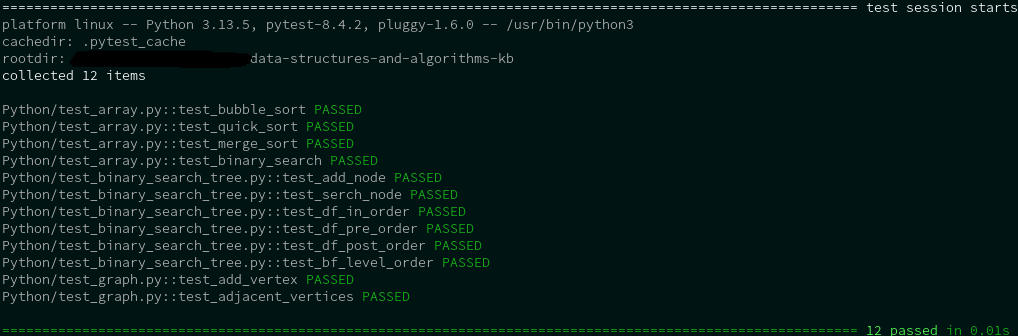
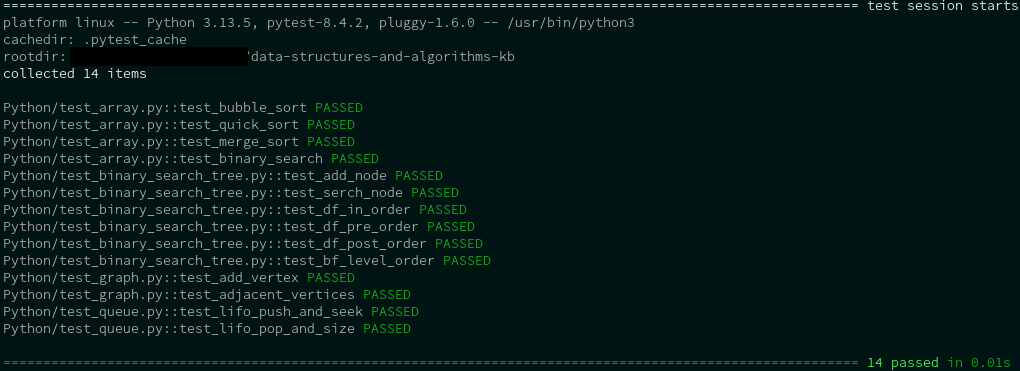
add: linked-list and stack (LIFO queue) data-structures

diff --git a/Python/test_array.py b/Python/test_array.py
@@ -3,91 +3,92 @@ from typing import List, Tuple, Union
 from pytest import fixture
 
 def bubble_sort(arr: List[int]) -> List[int]:
-	swapped = False
-	for i in range(len(arr) - 1):
-		if arr[i] > arr[i+1]:
-			arr[i], arr[i+1] = arr[i+1], arr[i]
-			swapped = True
-	return arr if not swapped else bubble_sort(arr)
+    swapped = False
+    for i in range(len(arr) - 1):
+        if arr[i] > arr[i+1]:
+            arr[i], arr[i+1] = arr[i+1], arr[i]
+            swapped = True
+    return arr if not swapped else bubble_sort(arr)
 
 def quick_sort(arr: List[int]) -> List[int]:
-	if len(arr) < 2:
-		return arr
-	pivot = arr.pop(randrange(len(arr) - 1))
-	return [
-		*quick_sort([x for x in arr if x <= pivot]),
-		pivot,
-		*quick_sort([x for x in arr if x > pivot]),
-	]
+    if len(arr) < 2:
+        return arr
+    pivot = arr.pop(randrange(len(arr) - 1))
+    return [
+        *quick_sort([x for x in arr if x <= pivot]),
+        pivot,
+        *quick_sort([x for x in arr if x > pivot]),
+    ]
 
 def merge_sort(arr: List[int]):
-	if len(arr) > 1:
-		mid = len(arr) // 2
-		left = arr[:mid]
-		right = arr[mid:]
-		merge_sort(left)
-		merge_sort(right)
-		i = j = k = 0
-		while(
-			i < len(left)
-			and j < len(right)
-		):
-			if left[i] < right[j]:
-				arr[k] = left[i]
-				i += 1
-			else:
-				arr[k] = right[j]
-				j += 1
-			k += 1
-		while i < len(left):
-			arr[k] = left[i]
-			i += 1
-			k += 1
-		while j < len(right):
-			arr[k] = right[j]
-			j += 1
-			k += 1
+    if len(arr) > 1:
+        mid = len(arr) // 2
+        left = arr[:mid]
+        right = arr[mid:]
+        merge_sort(left)
+        merge_sort(right)
+        i = j = k = 0
+        while(
+            i < len(left)
+            and j < len(right)
+        ):
+            if left[i] < right[j]:
+                arr[k] = left[i]
+                i += 1
+            else:
+                arr[k] = right[j]
+                j += 1
+            k += 1
+        while i < len(left):
+            arr[k] = left[i]
+            i += 1
+            k += 1
+        while j < len(right):
+            arr[k] = right[j]
+            j += 1
+            k += 1
 
 def binary_search(arr: List[int], item: int) -> Tuple[bool, Union[int, None]]:
-	if len(arr) == 0:
-		return False, None
-	mid = len(arr) // 2
-	if arr[mid] == item:
-		return True, mid
-	if item < arr[mid]:
-		return binary_search(arr[:mid], item)
-	else:
-		return binary_search(arr[mid + 1:], item)
+    if len(arr) == 0:
+        return False, None
+    mid = len(arr) // 2
+    if arr[mid] == item:
+        return True, mid
+    if item < arr[mid]:
+        return binary_search(arr[:mid], item)
+    else:
+        return binary_search(arr[mid + 1:], item)
 
 
 unsorted_list_list = [64, 34, 25, 0, 258, -54, 12, 22, 11, 90, 11, -21]
 
 @fixture
 def unsorted_list():
-	return unsorted_list_list.copy()
+    return unsorted_list_list.copy()
 
 @fixture
 def sorted_list():
-	test_list = unsorted_list_list.copy()
-	merge_sort(test_list)
-	return test_list
+    test_list = unsorted_list_list.copy()
+    merge_sort(test_list)
+    return test_list
 
 
 def test_bubble_sort(unsorted_list: List[int]):
-	assert sorted(unsorted_list) == bubble_sort(unsorted_list)
+    assert sorted(unsorted_list) == bubble_sort(unsorted_list)
 
 def test_quick_sort(unsorted_list: List[int]):
-	assert sorted(unsorted_list) == quick_sort(unsorted_list)
+    assert sorted(unsorted_list) == quick_sort(unsorted_list)
 
 def test_merge_sort(unsorted_list: List[int]):
-	expected_sorted_list = sorted(unsorted_list)
-	merge_sort(unsorted_list)
-	assert unsorted_list == expected_sorted_list
+    test_list = unsorted_list.copy()
+    expected_sorted_list = sorted(unsorted_list)    
+    merge_sort(test_list)
+    assert test_list == expected_sorted_list
 
 def test_binary_search(sorted_list: List[int]):
-	assert True == binary_search(sorted_list, 11)[0]
-	assert 1 == binary_search(sorted_list, -21)[1]
-	assert False == binary_search(sorted_list, 3)[0]
-	assert None == binary_search(sorted_list, 3)[1]
+    assert True == binary_search(sorted_list, 11)[0]
+    assert 1 == binary_search(sorted_list, -21)[1]
+    assert False == binary_search(sorted_list, 3)[0]
+    assert None == binary_search(sorted_list, 3)[1]
 
 

diff --git a/Python/test_queue.py b/Python/test_queue.py
@@ -1,0 +1,55 @@
+from typing import Union, Any
+from dataclasses import dataclass
+from pytest import fixture
+
+@dataclass
+class LinkedListNode:
+    value: Any
+    next: Union['LinkedListNode', None] = None
+
+class LIFOQueue:
+    def __init__(self):
+        self.top: Union[LinkedListNode, None] = None
+        self.size: int = 0
+
+    def push(self, value: Any) -> None:
+        new_node = LinkedListNode(value, self.top)
+        self.top = new_node
+        self.size += 1
+
+    def pop(self) -> Any:
+        if self.top is not None:
+            value = self.top.value
+            self.top = self.top.next
+            self.size -= 1
+            return value
+
+    def seek(self) -> Union[Any, None]:
+        if self.top is not None:
+            return self.top.value
+        return None
+
+    def stack_size(self) -> int:
+        return self.size
+
+
+@fixture
+def sample_stack() -> LIFOQueue:
+    stack = LIFOQueue()
+    stack.push(1)
+    stack.push(2)
+    stack.push(3)
+    return stack
+
+def test_lifo_push_and_seek(sample_stack: LIFOQueue) -> None:
+    sample_stack.push(4)
+    assert sample_stack.seek() == 4
+
+def test_lifo_pop_and_size(sample_stack: LIFOQueue) -> None:
+    assert sample_stack.pop() == 3
+    assert sample_stack.stack_size() == 2
+    assert sample_stack.pop() == 2
+    assert sample_stack.stack_size() == 1
+    assert sample_stack.pop() == 1
+    assert sample_stack.stack_size() == 0
+    assert sample_stack.pop() is None
